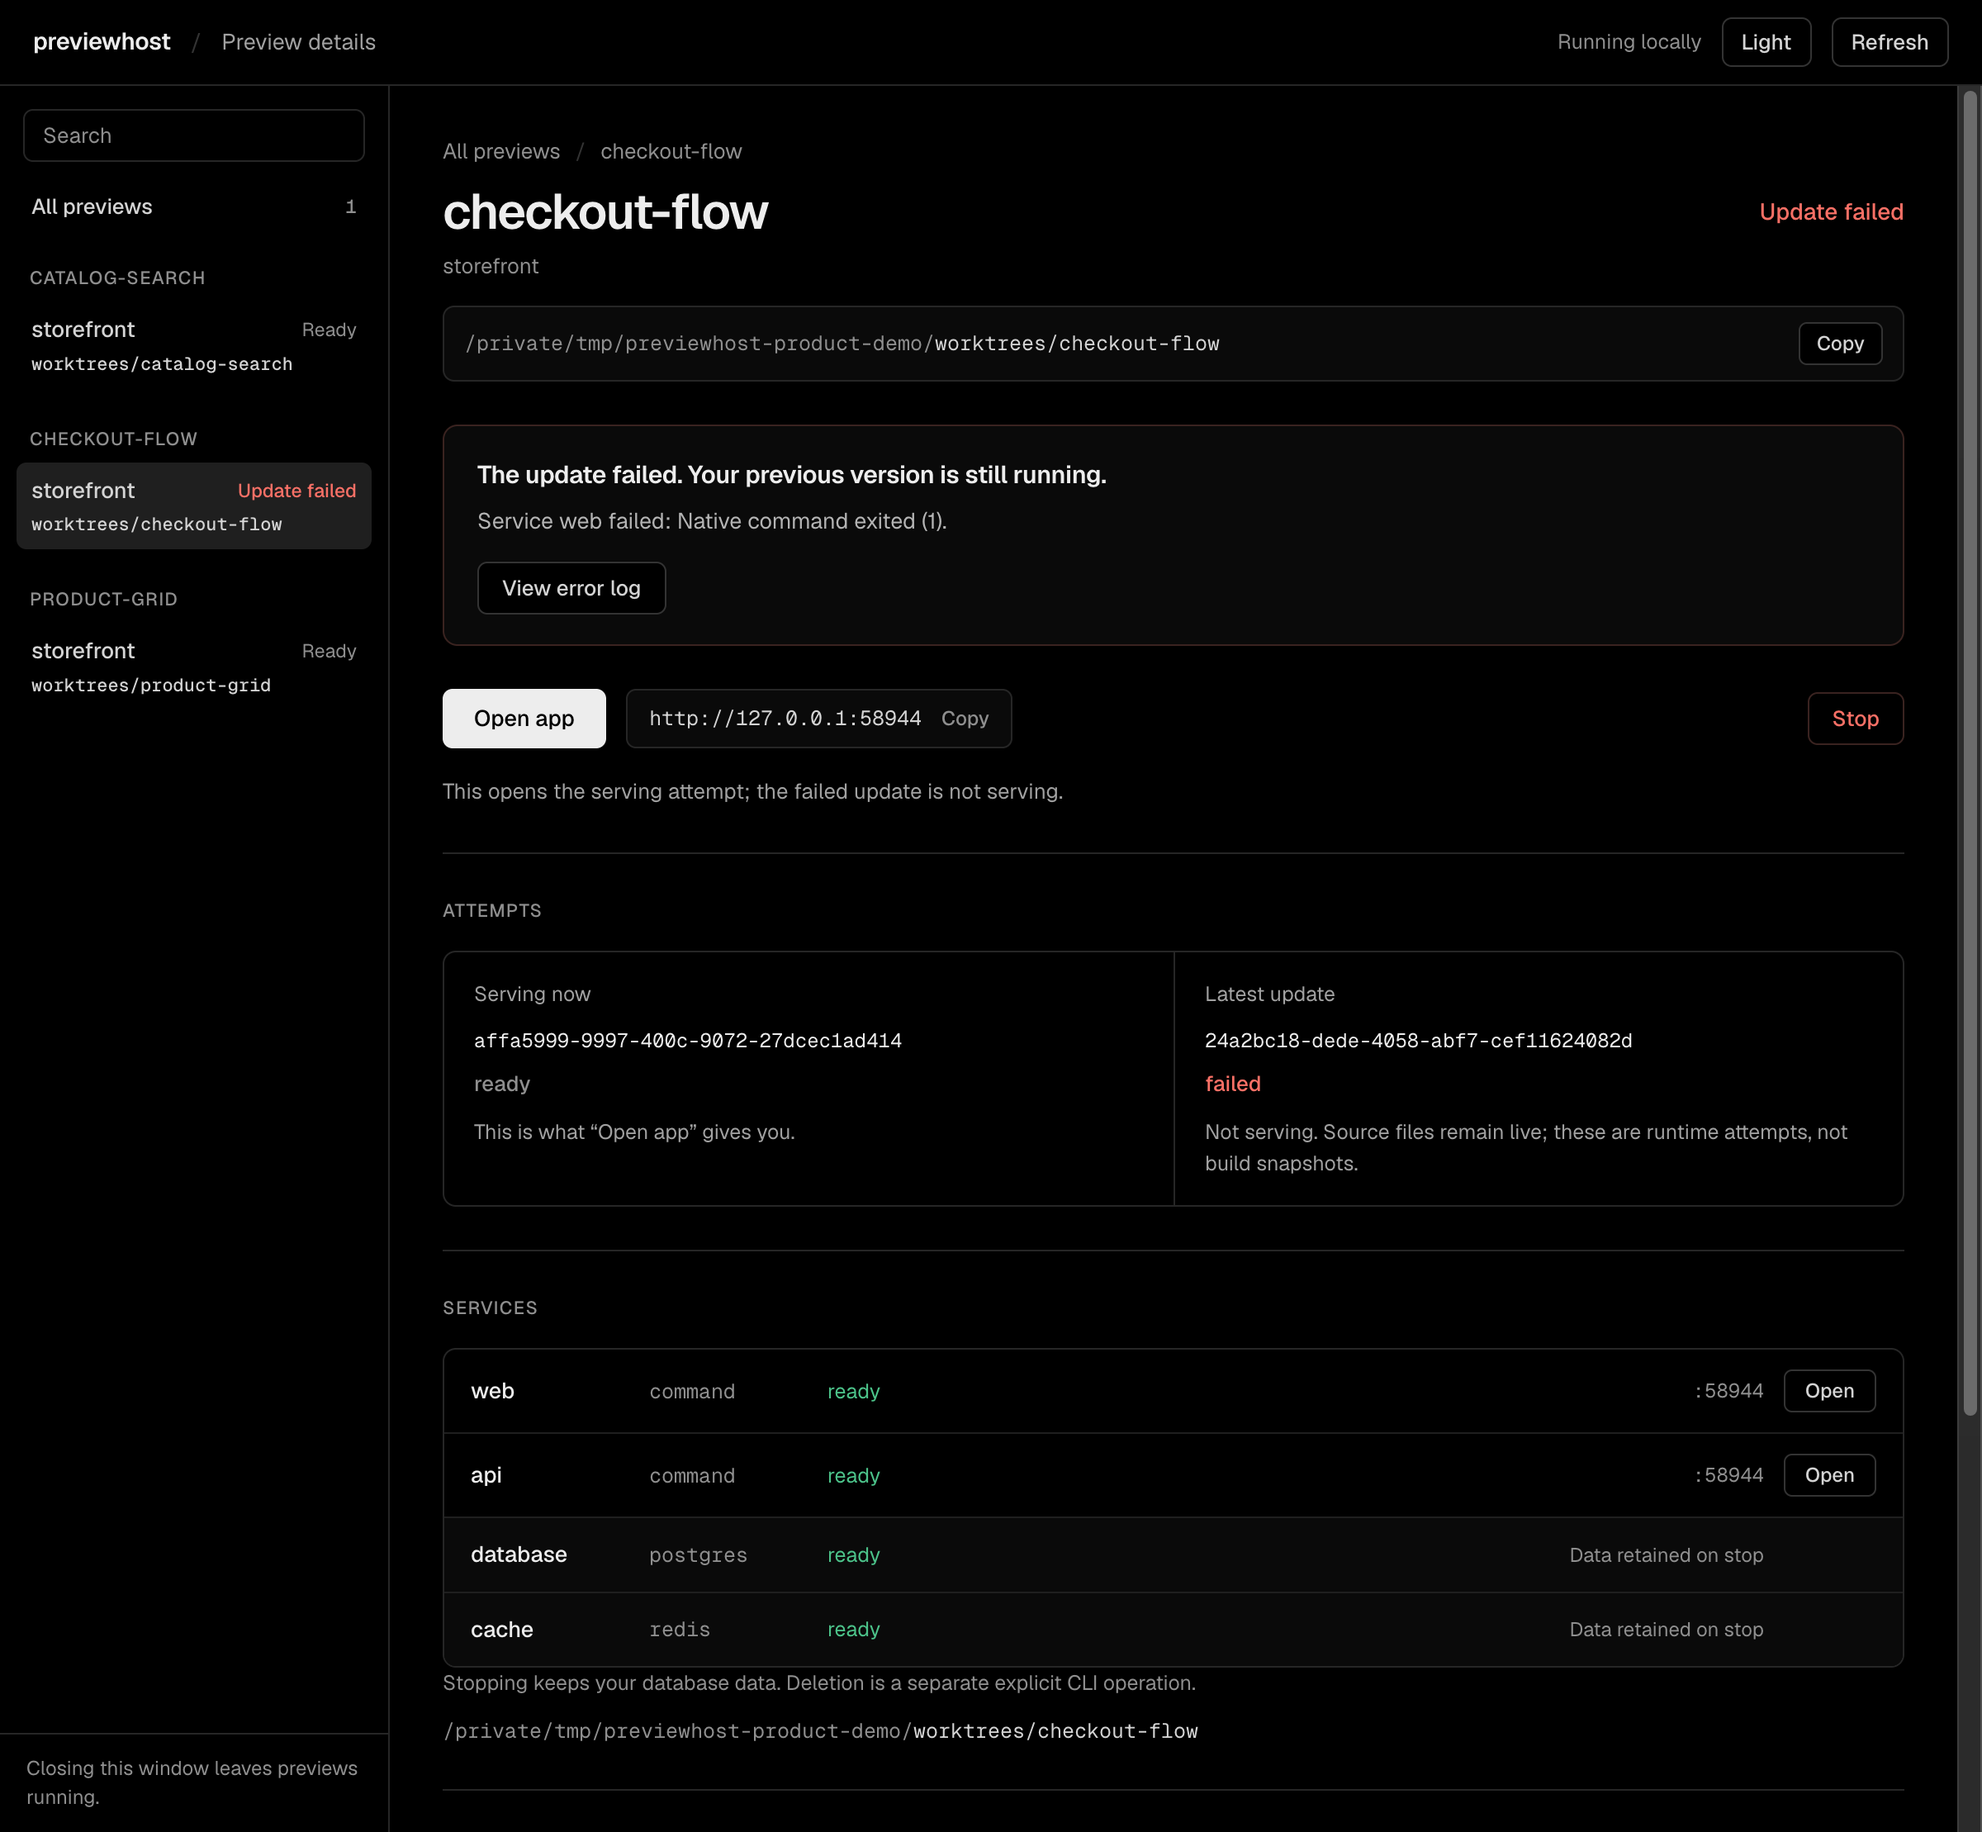
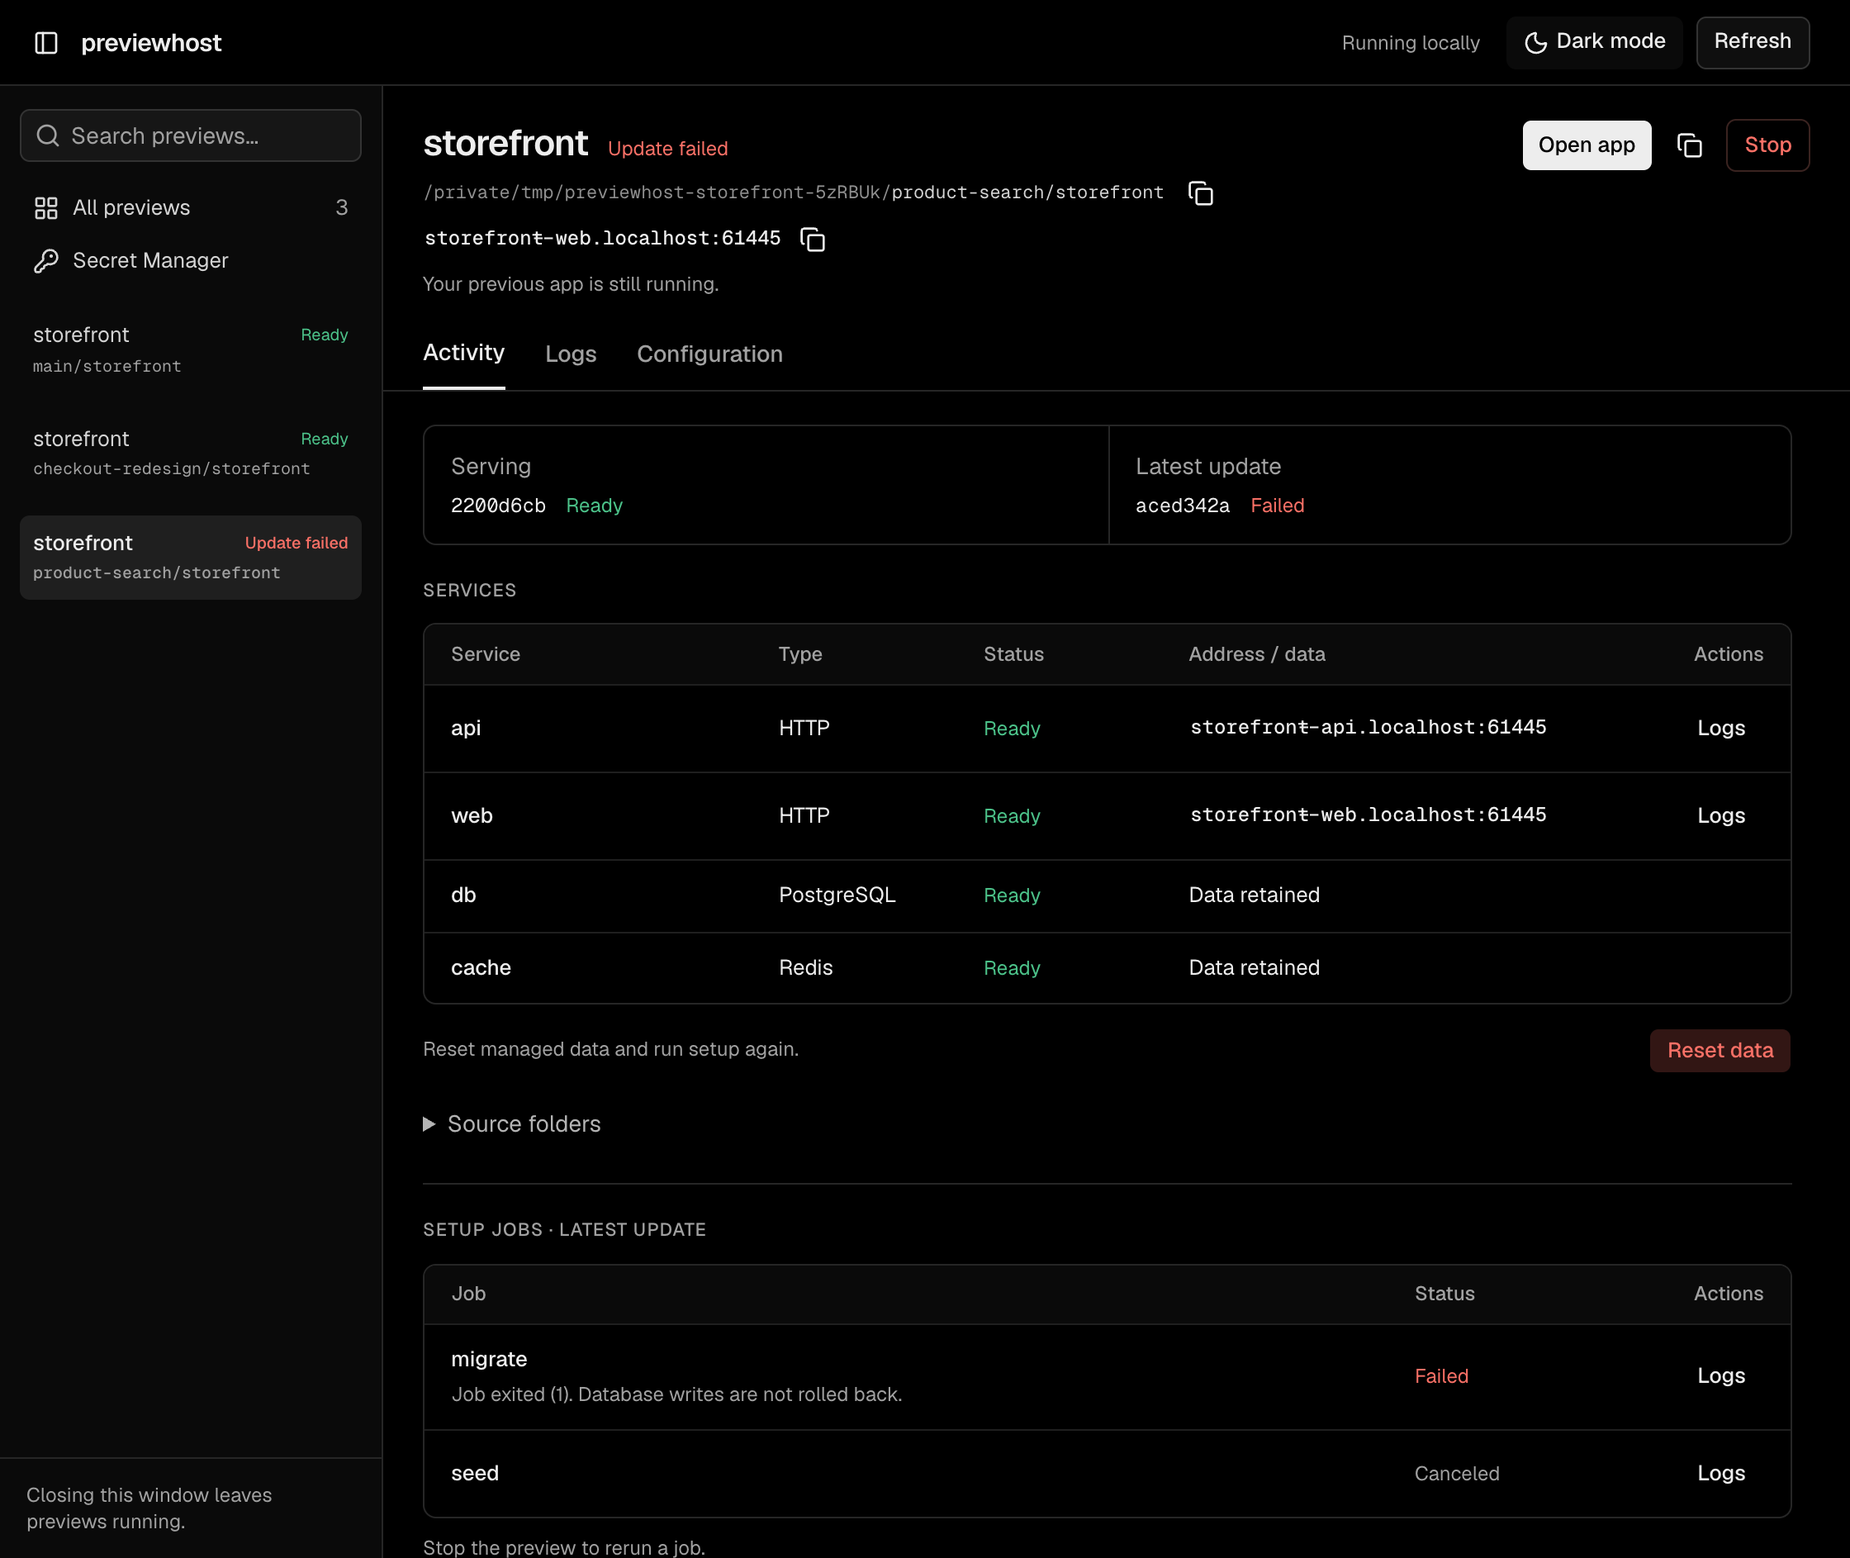
Refresh README screenshots for the React dashboard

diff --git a/README.md b/README.md
@@ -21,7 +21,7 @@ Use explicit [migration and seed jobs](docs/jobs.md) instead of embedding setup 
 When you replace a preview, its local URL stays the same.
 New requests switch to the replacement services only after they pass readiness checks.
 
-![Previewhost dashboard with a frontend, API, PostgreSQL and Redis in an isolated worktree](./assets/dashboard.png)
+![Previewhost dashboard showing a frontend, API, PostgreSQL, Redis, and completed migration and seed jobs](./assets/dashboard.png)
 
 Control environments through the CLI, MCP tools, or an embedded Node.js library:
 
@@ -203,9 +203,13 @@ In **Logs**, choose an attempt and source, then search its captured output. Sear
 A failed replacement leaves the previous application available. **Open app** still points to that serving attempt.
 
 <details>
-<summary>See a failed update with the previous application still available</summary>
+<summary>Inspect a failed update and its logs</summary>
 
 ![Failed update beside the serving attempt, with the frontend, API, PostgreSQL and Redis still ready](./assets/dashboard-update.png)
+
+Select a job's **Logs** to open its output.
+
+![Migration output with a missing-column error, log search, attempt selection, and source filtering](./assets/dashboard-logs.png)
 
 </details>
 
